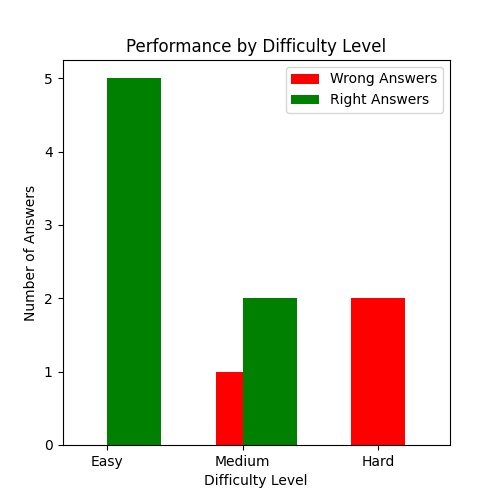
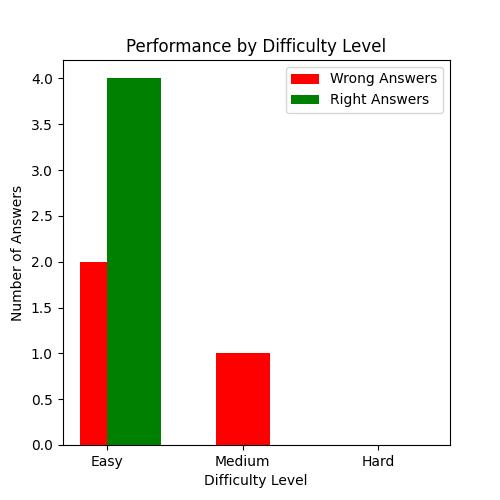
javascript changed

diff --git a/static/js/script.js b/static/js/script.js
@@ -6,18 +6,50 @@
     const playAgainButton = document.getElementById('play-again-btn');
     const questionNumberElement = document.getElementById('question-number');
     const tagElement = document.getElementById('tag');
-    let currentQuestionIndex, score, totalQuestionsAsked, questions;
+    let currentQuestionIndex, score, totalQuestionsAsked, questions, easyQuestions, mediumQuestions, hardQuestions;
     let usedQuestions = new Set();
     const appDiv = document.querySelector('.app');
     const TestName = appDiv.getAttribute('data-subject-name');
-    const No_of_Questions = parseInt(appDiv.getAttribute('data-no-of-questions'));
+    const totalQuestions = parseInt(appDiv.getAttribute('data-no-of-questions'));
     const perform = document.getElementById('performance');
     const performanceGraph = document.getElementById('performance-graph');
     let wrongquestions = [];
+    let correctquestions = [];
     let result = [0, 0, 0, 0, 0, 0];
+    let flag = 0;
+    let tag_name = "";
 
-    console.log(No_of_Questions);
-    console.log("Type : " + typeof No_of_Questions);
+
+    const easyPercentage = 40;
+    const mediumPercentage = 35;
+    const hardPercentage = 25;
+
+    easyQuestions = Math.ceil(totalQuestions * (easyPercentage / 100));
+    mediumQuestions = Math.round(totalQuestions * (mediumPercentage / 100));
+    hardQuestions = Math.round(totalQuestions * (hardPercentage / 100));
+
+    // Adjust counts to ensure the total is correct
+    while (easyQuestions + mediumQuestions + hardQuestions !== totalQuestions) {
+        const difference = totalQuestions - (easyQuestions + mediumQuestions + hardQuestions);
+    
+        if (difference > 0) {
+            // Increase medium or hard questions to match the totalQuestions
+            if (mediumQuestions <= hardQuestions) {
+                mediumQuestions += 1;
+            } else {
+                hardQuestions += 1;
+            }
+        } else {
+            // Decrease medium or hard questions to match the totalQuestions
+            if (mediumQuestions >= hardQuestions) {
+                mediumQuestions -= 1;
+            } else {
+                hardQuestions -= 1;
+            }
+        }
+    }
+
+    
 
     function fetchQuestions(tag, limit) {
         tag_name = tag;
@@ -41,7 +73,7 @@
         totalQuestionsAsked = 0;
         usedQuestions.clear();
         scoreContainer.classList.add('hidden');
-        fetchQuestions('easy', 5);
+        fetchQuestions('easy', easyQuestions);
     }
 
     function setNextQuestion() {
@@ -54,7 +86,7 @@
     }
 
     function showQuestion(question) {
-        questionNumberElement.innerText = ` ${totalQuestionsAsked + 1}`;
+        questionNumberElement.innerText = ` ${totalQuestionsAsked + 1})`;
         questionElement.innerText = question.text;
         tagElement.innerText = tag_name;
         answerButtonsElement.innerHTML = '';
@@ -100,16 +132,16 @@
             wrongquestions.push(question.text); // Store the question text
         }
         Array.from(answerButtonsElement.children).forEach(button => {
-            setStatusClass(button, button.dataset.correct === 'true');
+            setStatusClass(button, button.dataset.correct === 'true', selectedButton);
         });
         nextButton.classList.remove('hidden');
     }
 
-    function setStatusClass(element, correct) {
+    function setStatusClass(element, correct, selectedButton) {
         clearStatusClass(element);
         if (correct) {
             element.classList.add('correct');
-        } else {
+        } else if(element === selectedButton) {
             element.classList.add('incorrect');
         }
     }
@@ -119,34 +151,36 @@
         element.classList.remove('incorrect');
     }
 
+    
+
     function adjustDifficultyAndContinue() {
-        if (totalQuestionsAsked >= No_of_Questions) 
-        {
+        if (totalQuestionsAsked >= totalQuestions) {
             showScore();
-        } 
-        else if(totalQuestionsAsked >= 10)
-        {
-            fetchQuestions('hard', 10);
-        }
-        else if (totalQuestionsAsked >= 8) 
-        {
-            if (score >= 7) {
-                fetchQuestions('hard', 2);
-            } else if (score === 6) {
-                fetchQuestions('medium', 2);
+        } else if (totalQuestionsAsked >= easyQuestions + mediumQuestions) {
+            const marks = score;
+            const percentage = (marks / (easyQuestions + mediumQuestions)) * 100;
+            if (percentage >= 70 && flag ===1) {
+                console.log(flag);
+                fetchQuestions('hard', hardQuestions);
+            } else if (percentage >= 60 && percentage < 70) {
+                fetchQuestions('medium', hardQuestions);
             } else {
-                fetchQuestions('easy', 2);
+                fetchQuestions('easy', hardQuestions);
             }
-        } 
-        else if (totalQuestionsAsked >= 5) 
-        {
-            if (score >= 4) {
-                fetchQuestions('medium', 3);
+        } else if (totalQuestionsAsked >= easyQuestions) {
+            const easyMarks = score;
+            const percentage = (easyMarks / easyQuestions) * 100;
+            if (percentage >= 70) {
+                fetchQuestions('medium', mediumQuestions);
+                flag = 1;
+                console.log(flag);
             } else {
-                fetchQuestions('easy', 3);
+                fetchQuestions('easy', mediumQuestions);
             }
         }
     }
+
+
 
     function showScore() {
         const scoreContainer = document.getElementById('score-container');
@@ -164,7 +198,7 @@
             headers: {
                 'Content-Type': 'application/json'
             },
-            body: JSON.stringify({ results: result, wrongQuestions: wrongquestions })
+            body: JSON.stringify({ results: result, wrongQuestions: wrongquestions, correctQuestions: correctquestions })
         })
         .then(response => response.json())
         .then(data => {
@@ -177,7 +211,7 @@
     nextButton.addEventListener('click', () => {
         currentQuestionIndex++;
         totalQuestionsAsked++;
-        if (totalQuestionsAsked >= 10) {
+        if (totalQuestionsAsked >= totalQuestions) {
             showScore();
         } else if (currentQuestionIndex >= questions.length) {
             adjustDifficultyAndContinue();

diff --git a/indexnew.py b/indexnew.py
@@ -184,7 +184,9 @@ def student_quiz():
         Total_questions = cursor.fetchone()
 
         if not Total_questions:
-            Total_questions = 25
+            Total_questions = 20
+        else:
+            Total_questions = Total_questions['Number_of_questions']
 
     print(Test_name)
     print(Total_questions)
@@ -259,6 +261,7 @@ def submit_results():
     data = request.json
     results = data.get('results', [])
     wrong_questions = data.get('wrongQuestions', [])
+    correct_questions = data.get('correctQuestions', [])    
 
     # Generate the graph
     categories = ['Easy', 'Medium', 'Hard']
